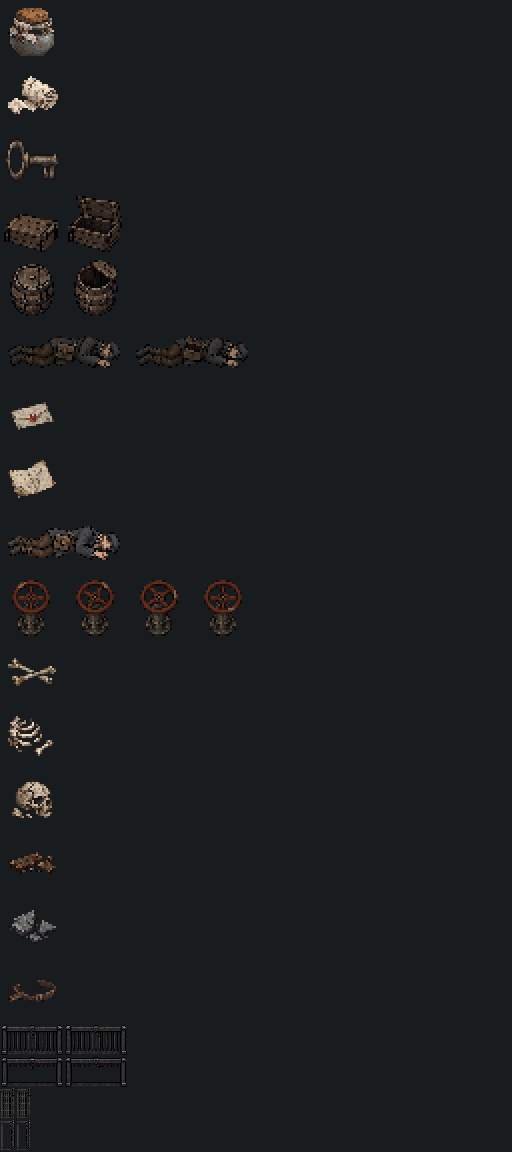
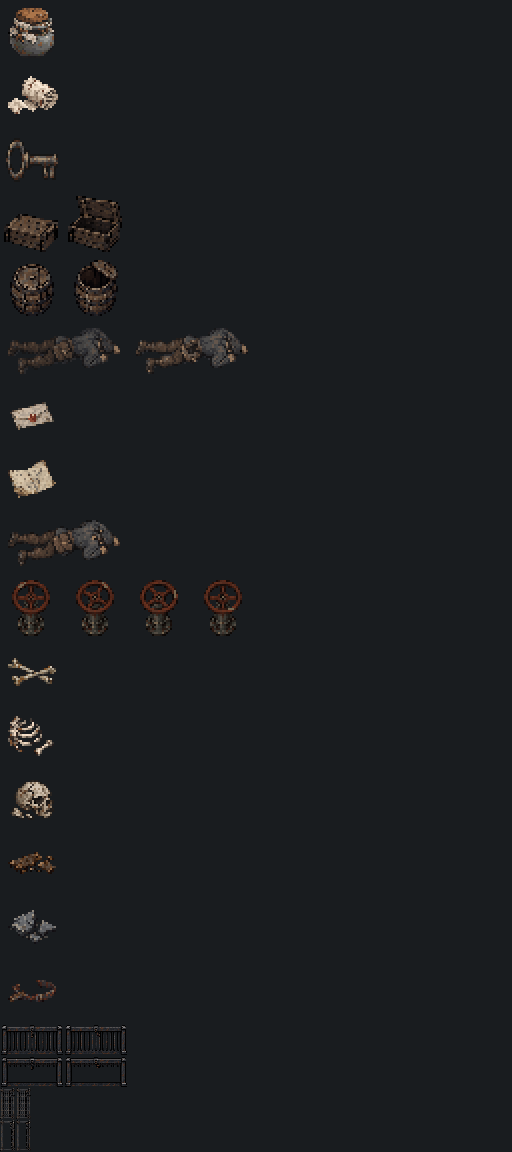
Redraw floor miners from the room camera with grounded contact

Changed region(s): [[0.0312, 0.2812, 0.4688, 0.3438], [0.0312, 0.4375, 0.2188, 0.5]]

diff --git a/assets/props/sewers/production/export.py b/assets/props/sewers/production/export.py
@@ -21,14 +21,23 @@ entries=[];images={}
 for name,spec in specs.items():
  path=P/(name+'-master.png')
  if not path.exists():continue
- source=Image.open(path).convert('RGBA');a=source.getchannel('A').point(lambda v:255 if v>=128 else 0);source.putalpha(a);fw,fh=spec['frame_size'];n=spec['frames'];pieces=[];bounds=[]
- sc,sr=spec.get('source_grid',[n,1])
- for i in range(n):
-  col,row=i%sc,i//sc;x0=round(source.width*col/sc);x1=round(source.width*(col+1)/sc);y0=round(source.height*row/sr);y1=round(source.height*(row+1)/sr)
-  if col:assert not a.crop((max(0,x0-2),y0,min(source.width,x0+2),y1)).getbbox(),(name,'sprite crosses column cut',i)
-  if row:assert not a.crop((x0,max(0,y0-2),x1,min(source.height,y0+2))).getbbox(),(name,'sprite crosses row cut',i)
-  f=source.crop((x0,y0,x1,y1));b=f.getchannel('A').getbbox();assert b,(name,i)
-  pieces.append(f.crop(b));bounds.append([b[0]+x0,b[1]+y0,b[2]+x0,b[3]+y0])
+ fw,fh=spec['frame_size'];n=spec['frames'];pieces=[];bounds=[];body_sources=[]
+ if name in ['satchel_body','miner_tag_body']:
+  # Each revision is a separate generated image with the same reference pose.
+  # Crop alpha and normalize its complete silhouette to the same native footprint.
+  names=['closed','open'] if name=='satchel_body' else ['tag']
+  for state in names:
+   source_path=P/'body-v2'/(state+'-master.png');source=Image.open(source_path).convert('RGBA');source.putalpha(source.getchannel('A').point(lambda v:255 if v>=128 else 0));b=source.getchannel('A').getbbox();assert b
+   pieces.append(source.crop(b));bounds.append(list(b));body_sources.append({'file':'body-v2/'+source_path.name,'canvas':list(source.size)})
+ else:
+  source=Image.open(path).convert('RGBA');a=source.getchannel('A').point(lambda v:255 if v>=128 else 0);source.putalpha(a)
+  sc,sr=spec.get('source_grid',[n,1])
+  for i in range(n):
+   col,row=i%sc,i//sc;x0=round(source.width*col/sc);x1=round(source.width*(col+1)/sc);y0=round(source.height*row/sr);y1=round(source.height*(row+1)/sr)
+   if col:assert not a.crop((max(0,x0-2),y0,min(source.width,x0+2),y1)).getbbox(),(name,'sprite crosses column cut',i)
+   if row:assert not a.crop((x0,max(0,y0-2),x1,min(source.height,y0+2))).getbbox(),(name,'sprite crosses row cut',i)
+   f=source.crop((x0,y0,x1,y1));b=f.getchannel('A').getbbox();assert b,(name,i)
+   pieces.append(f.crop(b));bounds.append([b[0]+x0,b[1]+y0,b[2]+x0,b[3]+y0])
  tw,th=spec['target'];scale=min(tw/max(f.width for f in pieces),th/max(f.height for f in pieces));frames=[]
  for f in pieces:
   size=tuple(spec['target']) if name.startswith('grate_') else (max(1,round(f.width*scale)),max(1,round(f.height*scale)));f=f.resize(size,N);frame=Image.new('RGBA',(fw,fh));x=(fw-f.width)//2;y=(fh-f.height)//2 if spec['align']=='centre' else fh-2-f.height
@@ -37,7 +46,10 @@ for name,spec in specs.items():
  for i,f in enumerate(frames):sheet.paste(f,((i%cols)*fw,(i//cols)*fh))
  # One palette per whole sheet; preserve binary alpha and clear hidden RGB.
  a=sheet.getchannel('A');q=sheet.convert('RGB').quantize(colors=32,dither=Image.Dither.NONE).convert('RGBA');q.putalpha(a);sheet=Image.new('RGBA',q.size);sheet.paste(q,mask=a);sheet.save(R/(name+'.png'));images[name]=sheet
- entry={'file':name+'.png','frame_size':[fw,fh],'canvas':list(sheet.size),'rows':spec['rows'],'states':spec['states'],'origin_px':[fw//2,fh//2],'source_canvas':list(source.size),'source_bounds':bounds,'shared_scale':None if name.startswith('grate_') else scale,'source_grid':spec.get('source_grid',[n,1]),'resampling':'fixed per-axis plane fit' if name.startswith('grate_') else 'shared uniform nearest scale','alignment':spec['align'],'frame_alpha_boxes':[f.getchannel('A').getbbox() for f in frames],'sha256':hashlib.sha256((R/(name+'.png')).read_bytes()).hexdigest()};entries.append(entry)
+ entry={'file':name+'.png','frame_size':[fw,fh],'canvas':list(sheet.size),'rows':spec['rows'],'states':spec['states'],'origin_px':[fw//2,fh//2],'source_canvas':list(source.size),'source_bounds':bounds,'shared_scale':None if name.startswith('grate_') else scale,'source_grid':spec.get('source_grid',[n,1]),'resampling':'fixed per-axis plane fit' if name.startswith('grate_') else 'shared uniform nearest scale','alignment':spec['align'],'frame_alpha_boxes':[f.getchannel('A').getbbox() for f in frames],'sha256':hashlib.sha256((R/(name+'.png')).read_bytes()).hexdigest()}
+ if body_sources:
+  entry.pop('source_canvas');entry.pop('source_grid');entry['source_images']=body_sources;entry['art_revision']='overhead prone, material edges and local contact occlusion'
+ entries.append(entry)
 (R/'manifest.json').write_text(json.dumps({'job':14,'grid_px':32,'pixel_origin':'upper left,+x right,+y down; sprite origins centre of frame','assets':entries},indent=2)+'\n')
 # Review gallery: one row per file; no labels inside game images.
 g=Image.new('RGBA',(512,64*len(entries)),(25,28,31,255))

diff --git a/assets/props/sewers/production/validate.py b/assets/props/sewers/production/validate.py
@@ -45,5 +45,16 @@ room=Image.open(B/'assets/tiles/sewers/rooms/junction_a/1.png').convert('RGBA');
 for file,index,x,y in placements:
  f=frames[file][index];room.alpha_composite(f,(x*32,y*32))
 room.resize((768,768),Image.Resampling.NEAREST).save(R/'previews/room-placement-2x.png')
+# Repeatable before/after review and preservation check for the body redraw.
+v=P/'body-v2';before=json.loads((v/'before-hashes.json').read_text())
+changed=sorted(name for name,old in before.items() if hashlib.sha256((R/name).read_bytes()).hexdigest()!=old)
+assert changed==['miner_tag_body.png','satchel_body.png'],changed
+old=Image.open(v/'before-room-2x.png').convert('RGBA');new=Image.open(R/'previews/room-placement-2x.png').convert('RGBA')
+comparison=Image.new('RGBA',(1536,768));comparison.paste(old,(0,0));comparison.paste(new,(768,0));comparison.save(R/'previews/body-before-after-room.png')
+comparison=Image.new('RGBA',(768,512))
+for row,box in enumerate([(112,360,304,488),(432,552,624,680)]):
+ for col,im in enumerate([old,new]):comparison.paste(im.crop(box).resize((384,256),Image.Resampling.NEAREST),(col*384,row*256))
+comparison.save(R/'previews/body-before-after-closeup.png')
+(v/'revision-checks.json').write_text(json.dumps({'changed_runtime_pngs':changed,'unchanged_runtime_pngs':16,'same_room_and_placement':True,'preview_columns':['before','after'],'preview_rows':['satchel body','miner tally body']},indent=2)+'\n')
 report={'runtime_pngs':18,'frames_total':30,'assets':checks,'grate_clearance':clearance,'three_distinct_bone_variants':True,'three_distinct_debris_variants':True,'native_visual_review':'Icons, paired caches, valve and both grate rows reviewed at nearest enlargement. Placement preview uses actual exported sprites.','limit':'Art checks only. Collision, interaction states, actual game lighting and animation timing require Claude integration.'}
 (R/'validation.json').write_text(json.dumps(report,indent=2)+'\n');print('PASS: 18 PNGs, 30 distinct frames, sizes/alpha/palettes/margins, three clutter variants, open grate clearance.')

diff --git a/assets/props/sewers/production/body-v2/README.md b/assets/props/sewers/production/body-v2/README.md
@@ -1,0 +1,27 @@
+# Floor-body redraw
+
+Built-in image generation, no CLI fallback. The first side-view bodies looked pasted onto the floor. The replacement uses the approved junction camera and materials: face down, cap crown and shoulder tops visible, broader prone footprint, broken material-coloured edges, selected contact-dark clusters. Head right, boots left; no floor patch or directional cast shadow.
+
+## Selected art and prompts
+
+All masters are transparent 1774×887, one image / one frame each. These are generation canvases, not game-frame dimensions.
+
+| File | Role / layout |
+| --- | --- |
+| `closed-master.png` | New prone pose, closed satchel; one frame |
+| `fresh-closed-prompt.txt` | Full generation prompt; approved `assets/tiles/sewers/rooms/junction_a/1.png` was the camera/material reference |
+| `open-master.png` | Same pose, opened empty satchel; one frame |
+| `open-prompt.txt` | Full edit prompt; `closed-master.png` was the edit target |
+| `tag-master.png` | Same pose, closed satchel, visible brass tally on loose neck cord; one frame |
+| `tag-prompt.txt` | Full edit prompt; `closed-master.png` was the edit target |
+| `before-satchel.png` | Previous runtime sheet, 128×32, one row / two 64×32 frames |
+| `before-tag.png` | Previous runtime sprite, 64×32, one row / one frame |
+| `before-room-2x.png` | Previous placement assembly, 768×768, one static frame |
+| `before-hashes.json` | Original SHA256 values of all 18 runtime PNGs |
+| `revision-checks.json` | Confirms only the two body runtime PNGs changed, with 16 preserved |
+| `.gdignore` | Excludes source/review files from Godot imports |
+| `README.md` | This inventory |
+
+`../export.py` crops each selected master's binary alpha and applies a shared uniform nearest scale across the two satchel states, then centres each in its 64×32 frame. The tally uses the same 56×24 maximum footprint. Each runtime sheet is quantized to at most 32 colours without dithering; exterior alpha is binary and hidden RGB cleared. Full crop/scale records are in `../../manifest.json`. No sprite painting is done by the exporter.
+
+Runtime outputs: `../../satchel_body.png` (128×32; one row, closed then searched), `../../miner_tag_body.png` (64×32; static). Compare `../../previews/body-before-after-closeup.png`: before left, revised right, satchel top and tally bottom. The preview uses the same actual approved room and positions, with nearest enlargement only; it is not an engine-lighting test.

diff --git a/assets/props/sewers/README.md b/assets/props/sewers/README.md
@@ -46,7 +46,7 @@ All origins are frame centres, measured from upper-left (+x right, +y down):
 
 Draw each selected frame at its logical footprint’s upper-left, or position its centre at the footprint centre. Cache pairs use a common source scale; crate and barrel share a bottom-centre baseline. Body cache frames are centred and change the satchel flap. Grate source planes are fitted to identical native bounds for stable state registration. `manifest.json` records crops, scales, origins and alignment.
 
-Both miners lie with **head right, boots left**, as requested for directional art. Their flat caps, slate coats and wet brown trousers match one another; the tally body uses the satchel-body source as its identity reference. The tally tag is visible on the chest. The letter has Ellen’s copper-red wax seal; the hymn sheet uses indistinct ink strokes, not readable writing. Clutter is low floor decoration, without baked floor or ground shadows.
+Both miners lie with **head right, boots left**, as requested for directional art. Their flat caps, slate coats and wet brown trousers match one another; the tally body uses the satchel-body source as its identity reference. The tally tag hangs on a loose cord over the visible upper coat beside the collar. The letter has Ellen’s copper-red wax seal; the hymn sheet uses indistinct ink strokes, not readable writing. Both bodies use a more overhead, face-down pose, broader shoulder and hip footprint, and material-coloured broken edges. Small opaque contact-dark clusters hug the bearing shoulder, hip and boots; no floor patch or directional cast shadow is baked in. Other clutter remains low floor decoration. See `previews/body-before-after-closeup.png` (before left, revised right).
 
 Gameplay determines interaction, placement and collision. In particular, a shut grate blocks movement even where alpha has holes; an open grate must use open-state collision. Do not infer any of that from sprite pixels. Add real lighting in game. Godot 4.7 uses nearest sampling; no smoothing.
 

diff --git a/assets/props/sewers/production/README.md b/assets/props/sewers/production/README.md
@@ -1,12 +1,14 @@
 # Sewer contents production
 
-All 18 requested assets were generated with the built-in image-generation tool, one asset per call. Multi-frame source images contain only that asset’s states. The full prompt specification for each is saved as `<name>-prompt.txt`. The miner tally body additionally referenced `satchel_body-master.png` to retain clothing, face and pose. No CLI image-generation fallback was used.
+All 18 requested assets were generated with the built-in image-generation tool, one asset per call. Multi-frame source images contain only that asset’s states. The full prompt specification for each is saved as `<name>-prompt.txt`. The original miner tally body referenced `satchel_body-master.png`. Both original body masters are retained for history but are superseded by the overhead redraw in `body-v2/`; those three single-image sources now supply runtime body frames. No CLI image-generation fallback was used.
 
 `grate-format.json` preserves Julian’s explicit clarification: four total per sheet, two shut and two open. Grate source images use a 2×2 grid and export to two animation rows of two frames. Other multi-frame masters use one row.
 
 `export.py` crops binary-alpha silhouettes, fits complete art to native cells with nearest sampling, uses shared scale for each pair/animation, registers baselines or centres, quantizes each sheet to 32 colours and clears hidden transparent RGB. Grates use a per-axis fit of their flat source plane to fixed bounds; they are not scaled independently by the game. This is mechanical export, not procedural sprite drawing.
 
 `validate.py` checks all runtime files and makes review sheets/GIFs and a placement assembly. Run export.py then validate.py with Python and Pillow. It does not run Godot or test gameplay.
+
+`body-v2/README.md` lists the selected redraw masters, full prompts and before/after records. The redraw starts from the approved room camera and materials; searched-satchel and tally-tag variants edit that same prone pose.
 
 ## Inventory
 

diff --git a/assets/props/sewers/previews/README.md b/assets/props/sewers/previews/README.md
@@ -5,6 +5,8 @@ Review artifacts only; `.gdignore` keeps them out of imports. Every PNG is one s
 | File | Canvas / frames | Purpose |
 | --- | --- | --- |
 | `all-assets.png` | 512×1152, 1 frame(s) | Nearest-sampled art review |
+| `body-before-after-room.png` | 1536×768, 1 frame | Same room and placements; original left, revised right |
+| `body-before-after-closeup.png` | 768×512, 1 frame | Before left, revised right; satchel top, tally body bottom |
 | `barrel.gif` | 128×128, 2 frame(s) | State/turn animation preview |
 | `contact-4x.png` | 1024×2304, 1 frame(s) | Nearest-sampled art review |
 | `crate.gif` | 128×128, 2 frame(s) | State/turn animation preview |
